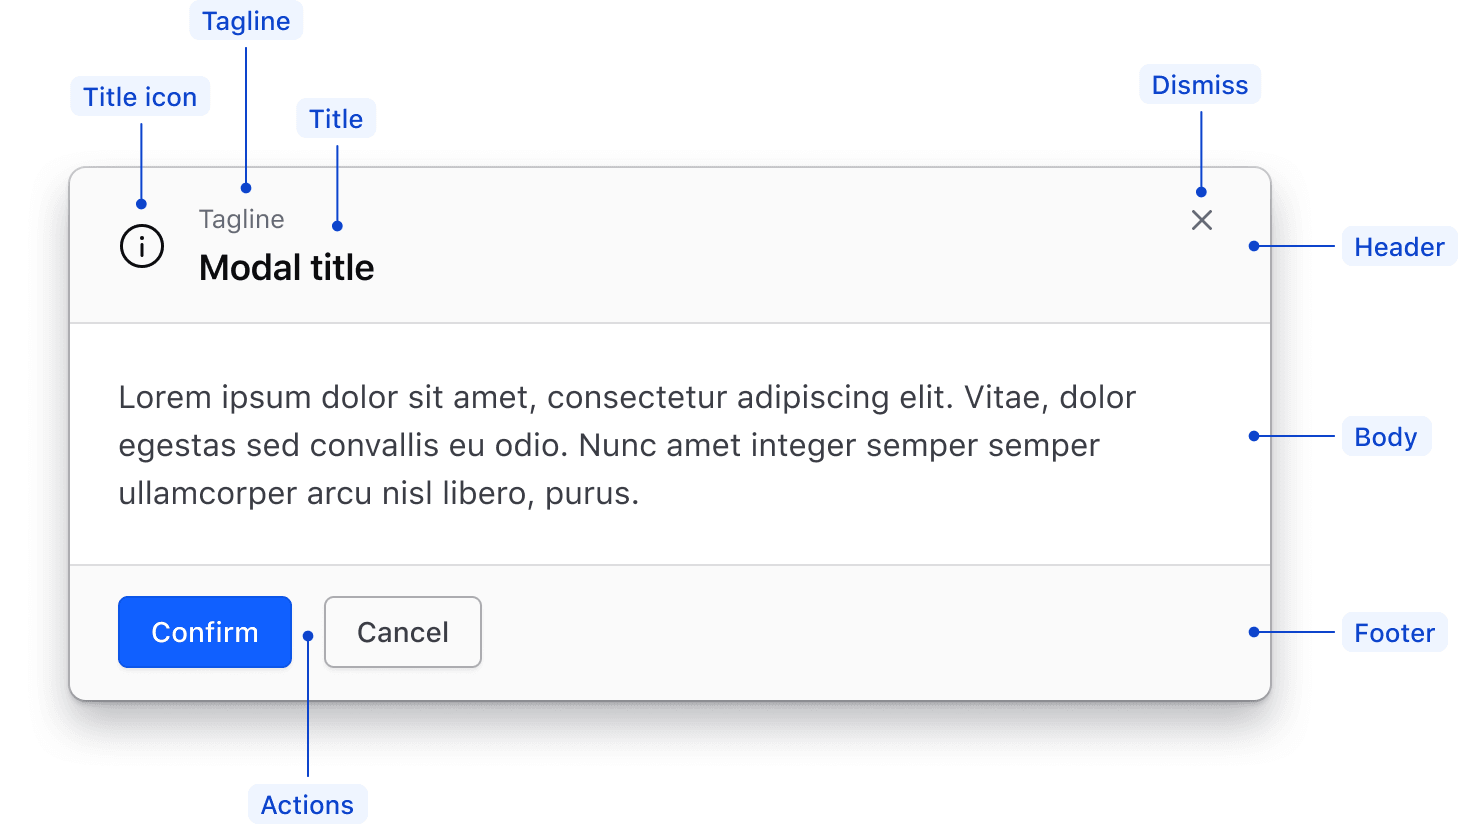
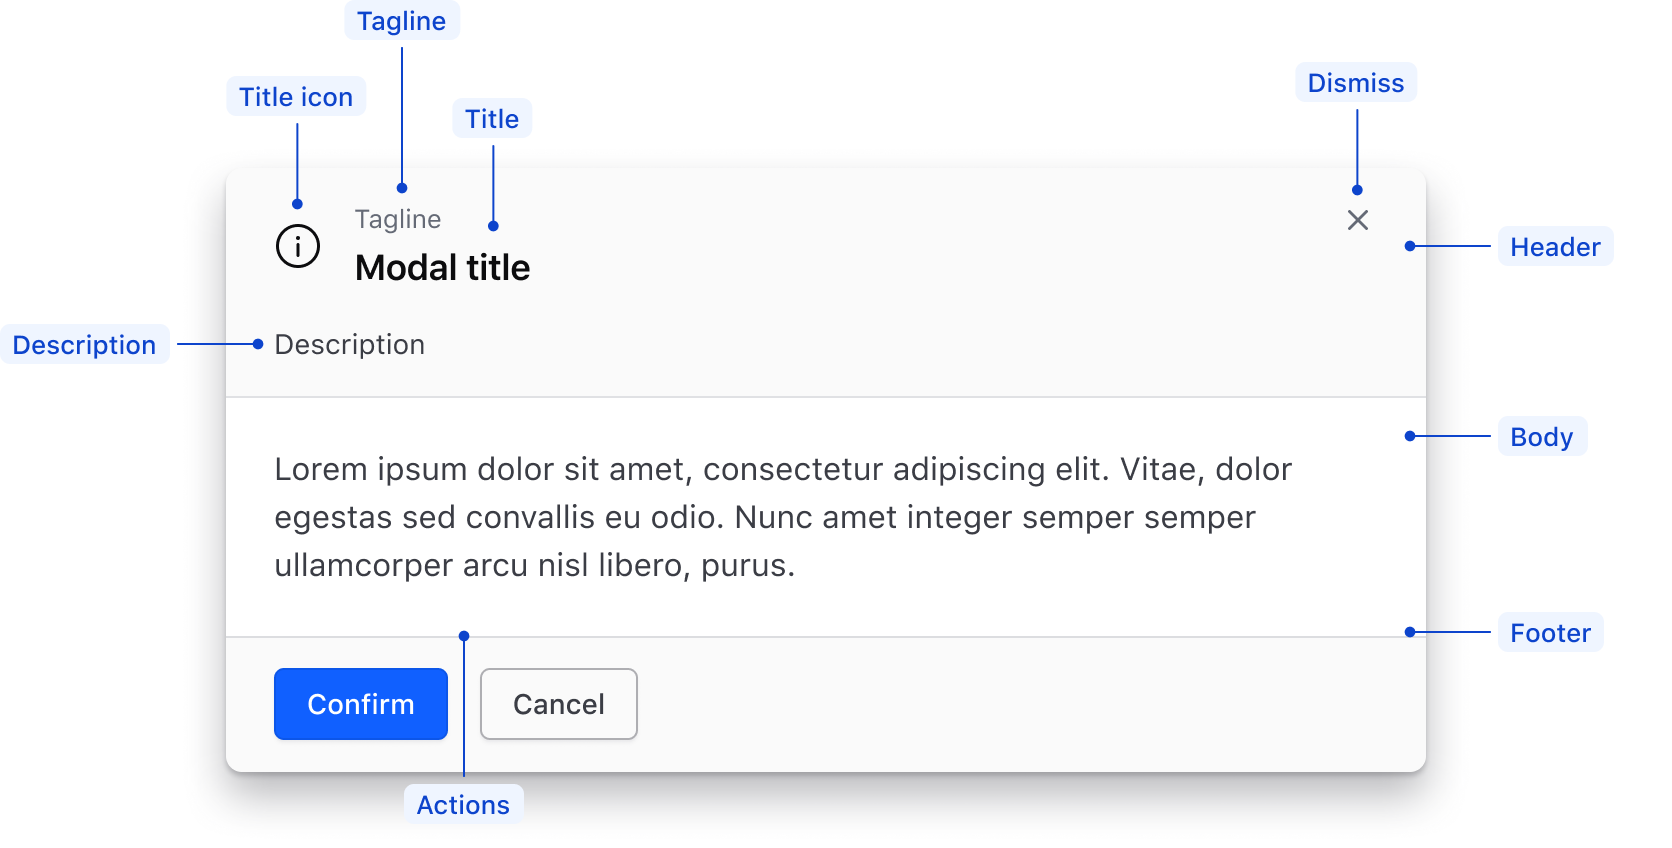
Updated Modal anatomy and image

diff --git a/website/docs/components/modal/partials/specifications/anatomy.md b/website/docs/components/modal/partials/specifications/anatomy.md
@@ -1,6 +1,6 @@
 ## Anatomy
 
-![Anatomy of a modal](/assets/components/modal/modal-anatomy.png =729x*)
+![Anatomy of a modal](/assets/components/modal/modal-anatomy.png)
 
 | Element          | Usage                                           |
 |------------------|-------------------------------------------------|
@@ -8,6 +8,7 @@
 | Title icon       | Optional                                        |
 | Tagline          | Optional                                        |
 | Title            | Required                                        |
+| Description      | Optional                                        |
 | Dismiss          | Required, all modals are dismissible            |
 | **Body**         |                                                 |
 | Content          | Required; either default (simple text) or custom|
